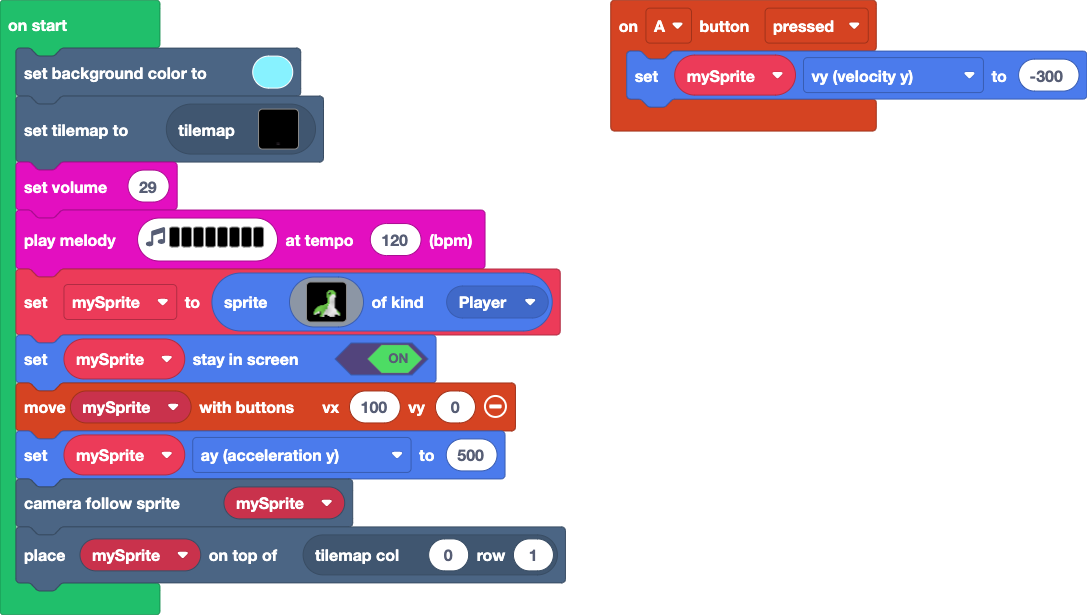
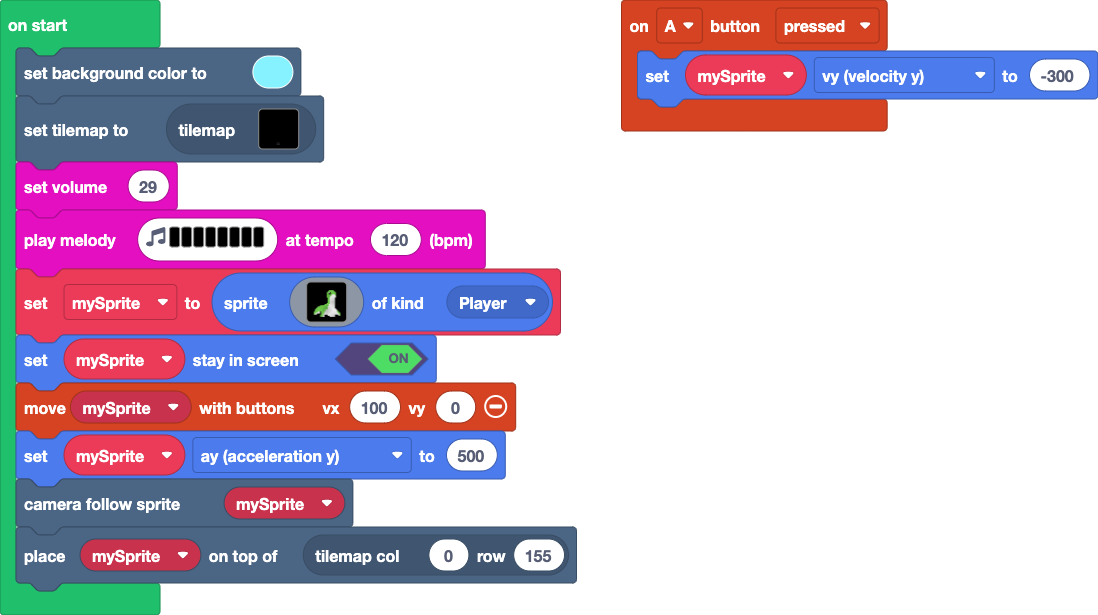
Update main.blocks, main.ts, main.py

diff --git a/main.ts b/main.ts
@@ -2,6 +2,7 @@ controller.A.onEvent(ControllerButtonEvent.Pressed, function on_a_pressed() {
     mySprite.vy = -300
 })
 let mySprite : Sprite = null
+let myEnemySprite : Sprite = null
 scene.setBackgroundColor(9)
 tiles.setCurrentTilemap(tilemap`
     level1
@@ -11,8 +12,13 @@ music.playMelody("A F A B C5 G A G ", 120)
 mySprite = sprites.create(assets.image`
     myImage
 `, SpriteKind.Player)
+myEnemySprite = sprites.create(assets.image`
+    Nega Nessie
+`, SpriteKind.Enemy)
+myEnemySprite.say("LETS DO GREAT WORK!!!")
 mySprite.setStayInScreen(true)
 controller.moveSprite(mySprite, 100, 0)
 mySprite.ay = 500
 scene.cameraFollowSprite(mySprite)
 tiles.placeOnTile(mySprite, tiles.getTileLocation(0, 155))
+tiles.placeOnTile(myEnemySprite, tiles.getTileLocation(5, 157))

diff --git a/main.py b/main.py
@@ -3,6 +3,7 @@ def on_a_pressed():
 controller.A.on_event(ControllerButtonEvent.PRESSED, on_a_pressed)
 
 mySprite: Sprite = None
+myEnemySprite: Sprite = None
 scene.set_background_color(9)
 tiles.set_current_tilemap(tilemap("""
     level1
@@ -12,8 +13,13 @@ music.play_melody("A F A B C5 G A G ", 120)
 mySprite = sprites.create(assets.image("""
     myImage
 """), SpriteKind.player)
+myEnemySprite = sprites.create(assets.image("""
+    Nega Nessie
+"""), SpriteKind.enemy)
+myEnemySprite.say("LETS DO GREAT WORK!!!")
 mySprite.set_stay_in_screen(True)
 controller.move_sprite(mySprite, 100, 0)
 mySprite.ay = 500
 scene.camera_follow_sprite(mySprite)
 tiles.place_on_tile(mySprite, tiles.get_tile_location(0, 155))
+tiles.place_on_tile(myEnemySprite, tiles.get_tile_location(5, 157))
